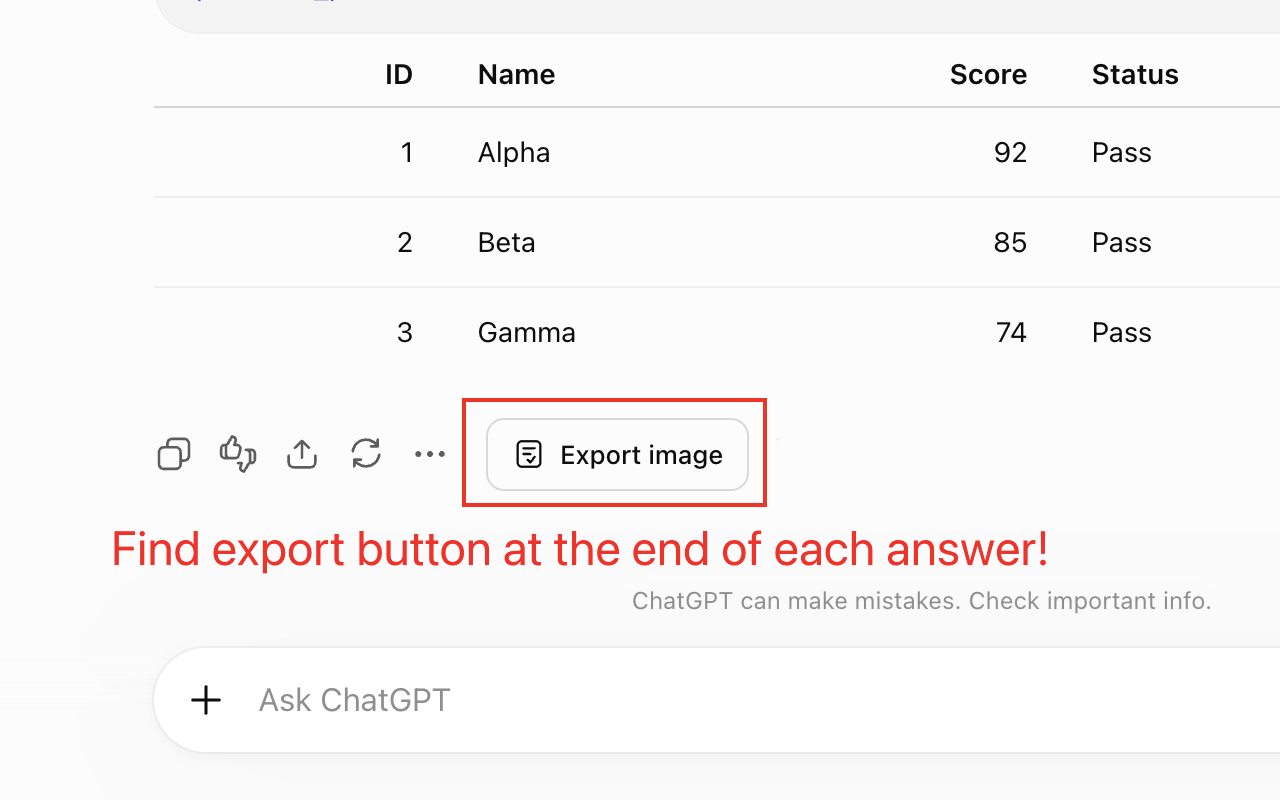
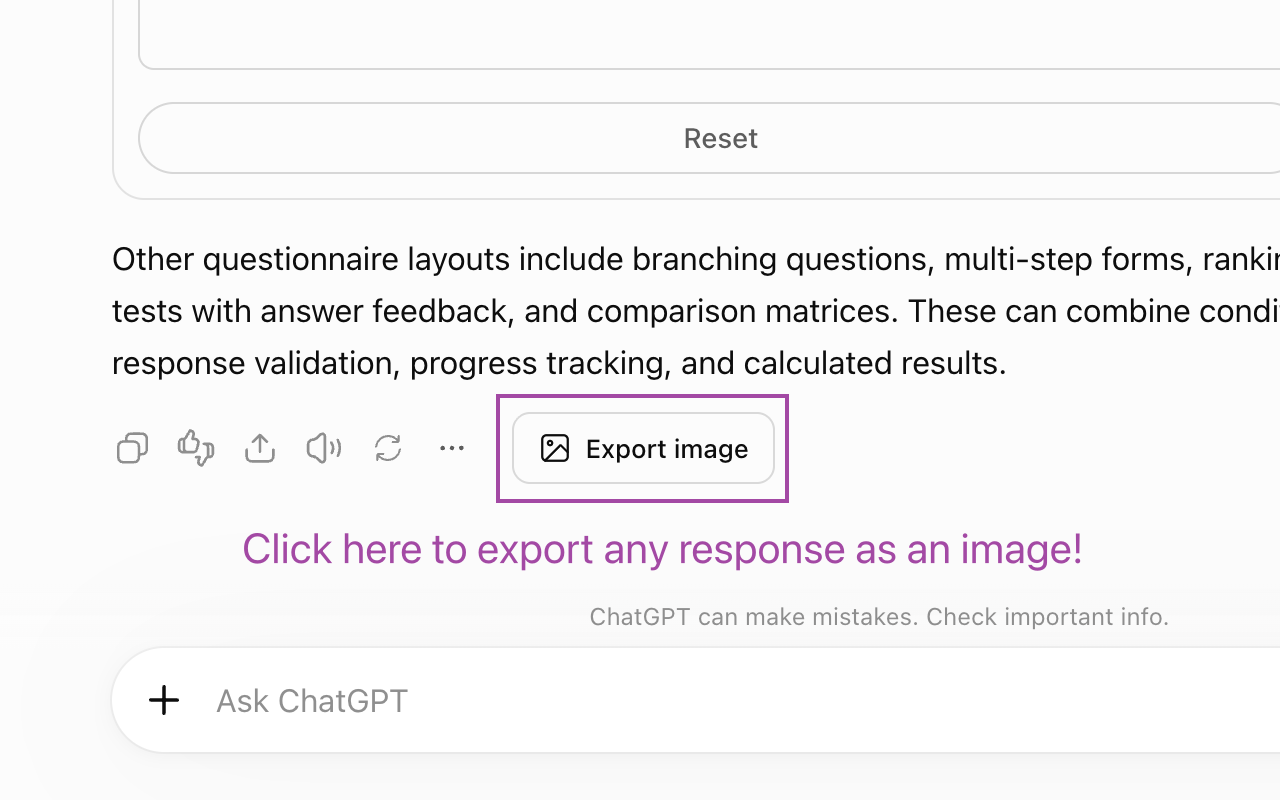
Release 1.2.1: fix structured exports and clarify layout width

diff --git a/tests/fixtures/scorecard.html b/tests/fixtures/scorecard.html
@@ -1,0 +1,1 @@
+<div class="Box-qIMv6G" data-d-component="box" data-d-direction="col" data-d-has-border="" style="border: 1px solid var(--color-border); border-radius: var(--radius-xl); --w-box-gutter-block-end: calc(var(--spacing, 0.25rem) * 3); --w-box-gutter-block-start: calc(var(--spacing, 0.25rem) * 3); --w-box-gutter-inline-end: calc(var(--spacing, 0.25rem) * 3); --w-box-gutter-inline-start: calc(var(--spacing, 0.25rem) * 3); padding-block: calc(var(--spacing, 0.25rem) * 3); padding-inline: calc(var(--spacing, 0.25rem) * 3); gap: calc(var(--spacing, 0.25rem) * 3);"><h2 class="TextBase-hXhSqg Title-HRvkwB" data-d-component="title" data-d-size="lg" data-d-weight="semibold">Mock interview scorecard</h2><span class="TextBase-hXhSqg Caption-VSNpzV" data-d-component="caption" data-d-size="lg" data-d-weight="normal">Score each dimension: 0 = missing, 1 = required prompting, 2 = independently demonstrated.</span><div class="Box-qIMv6G" data-d-component="box" data-d-direction="col" style="gap: calc(var(--spacing, 0.25rem) * 1);"><p class="TextBase-hXhSqg Text-lIMP0_" data-d-component="text" data-d-weight="medium">Requirements and appropriate scoping</p><div class="SegmentedControl-H_wCVX" data-d-component="segmented-control"><div dir="ltr" role="radiogroup" class="SegmentedControl-QpvYX9" data-pill="" data-variant="ghost" data-size="md" aria-label="Options" tabindex="0" style="outline: none;"><div class="SegmentedControlThumb-q65vDK" style="transition: width 300ms var(--cubic-enter), transform 300ms var(--cubic-enter);"></div><button type="button" data-state="off" role="radio" aria-checked="false" class="SegmentedControlOption-y4aI7a" aria-label="0 · Missing" tabindex="-1" data-radix-collection-item=""><span class="relative">0 · Missing</span></button><button type="button" data-state="off" role="radio" aria-checked="false" class="SegmentedControlOption-y4aI7a" aria-label="1 · Assisted" tabindex="-1" data-radix-collection-item=""><span class="relative">1 · Assisted</span></button><button type="button" data-state="off" role="radio" aria-checked="false" class="SegmentedControlOption-y4aI7a" aria-label="2 · Independent" tabindex="-1" data-radix-collection-item=""><span class="relative">2 · Independent</span></button></div></div></div><div class="Divider-WkGDyu" data-d-component="divider" style="--divider-color: var(--color-border); --divider-size: 1px;"></div><div class="Box-qIMv6G" data-d-component="box" data-d-direction="col" style="gap: calc(var(--spacing, 0.25rem) * 1);"><p class="TextBase-hXhSqg Text-lIMP0_" data-d-component="text" data-d-weight="medium">API, data model, and core architecture</p><div class="SegmentedControl-H_wCVX" data-d-component="segmented-control"><div dir="ltr" role="radiogroup" class="SegmentedControl-QpvYX9" data-pill="" data-variant="ghost" data-size="md" aria-label="Options" tabindex="0" style="outline: none;"><div class="SegmentedControlThumb-q65vDK" style="transition: width 300ms var(--cubic-enter), transform 300ms var(--cubic-enter);"></div><button type="button" data-state="off" role="radio" aria-checked="false" class="SegmentedControlOption-y4aI7a" aria-label="0 · Missing" tabindex="-1" data-radix-collection-item=""><span class="relative">0 · Missing</span></button><button type="button" data-state="off" role="radio" aria-checked="false" class="SegmentedControlOption-y4aI7a" aria-label="1 · Assisted" tabindex="-1" data-radix-collection-item=""><span class="relative">1 · Assisted</span></button><button type="button" data-state="off" role="radio" aria-checked="false" class="SegmentedControlOption-y4aI7a" aria-label="2 · Independent" tabindex="-1" data-radix-collection-item=""><span class="relative">2 · Independent</span></button></div></div></div><div class="Divider-WkGDyu" data-d-component="divider" style="--divider-color: var(--color-border); --divider-size: 1px;"></div><div class="Box-qIMv6G" data-d-component="box" data-d-direction="col" style="gap: calc(var(--spacing, 0.25rem) * 1);"><p class="TextBase-hXhSqg Text-lIMP0_" data-d-component="text" data-d-weight="medium">Complete end-to-end request/data flow</p><div class="SegmentedControl-H_wCVX" data-d-component="segmented-control"><div dir="ltr" role="radiogroup" class="SegmentedControl-QpvYX9" data-pill="" data-variant="ghost" data-size="md" aria-label="Options" tabindex="0" style="outline: none;"><div class="SegmentedControlThumb-q65vDK" style="transition: width 300ms var(--cubic-enter), transform 300ms var(--cubic-enter);"></div><button type="button" data-state="off" role="radio" aria-checked="false" class="SegmentedControlOption-y4aI7a" aria-label="0 · Missing" tabindex="-1" data-radix-collection-item=""><span class="relative">0 · Missing</span></button><button type="button" data-state="off" role="radio" aria-checked="false" class="SegmentedControlOption-y4aI7a" aria-label="1 · Assisted" tabindex="-1" data-radix-collection-item=""><span class="relative">1 · Assisted</span></button><button type="button" data-state="off" role="radio" aria-checked="false" class="SegmentedControlOption-y4aI7a" aria-label="2 · Independent" tabindex="-1" data-radix-collection-item=""><span class="relative">2 · Independent</span></button></div></div></div><div class="Divider-WkGDyu" data-d-component="divider" style="--divider-color: var(--color-border); --divider-size: 1px;"></div><div class="Box-qIMv6G" data-d-component="box" data-d-direction="col" style="gap: calc(var(--spacing, 0.25rem) * 1);"><p class="TextBase-hXhSqg Text-lIMP0_" data-d-component="text" data-d-weight="medium">Reasoned trade-offs and bottleneck analysis</p><div class="SegmentedControl-H_wCVX" data-d-component="segmented-control"><div dir="ltr" role="radiogroup" class="SegmentedControl-QpvYX9" data-pill="" data-variant="ghost" data-size="md" aria-label="Options" tabindex="0" style="outline: none;"><div class="SegmentedControlThumb-q65vDK" style="transition: width 300ms var(--cubic-enter), transform 300ms var(--cubic-enter);"></div><button type="button" data-state="off" role="radio" aria-checked="false" class="SegmentedControlOption-y4aI7a" aria-label="0 · Missing" tabindex="-1" data-radix-collection-item=""><span class="relative">0 · Missing</span></button><button type="button" data-state="off" role="radio" aria-checked="false" class="SegmentedControlOption-y4aI7a" aria-label="1 · Assisted" tabindex="-1" data-radix-collection-item=""><span class="relative">1 · Assisted</span></button><button type="button" data-state="off" role="radio" aria-checked="false" class="SegmentedControlOption-y4aI7a" aria-label="2 · Independent" tabindex="-1" data-radix-collection-item=""><span class="relative">2 · Independent</span></button></div></div></div><div class="Divider-WkGDyu" data-d-component="divider" style="--divider-color: var(--color-border); --divider-size: 1px;"></div><div class="Box-qIMv6G" data-d-component="box" data-d-direction="col" style="gap: calc(var(--spacing, 0.25rem) * 1);"><p class="TextBase-hXhSqg Text-lIMP0_" data-d-component="text" data-d-weight="medium">Failure handling, observability, and relevant AI concerns</p><div class="SegmentedControl-H_wCVX" data-d-component="segmented-control"><div dir="ltr" role="radiogroup" class="SegmentedControl-QpvYX9" data-pill="" data-variant="ghost" data-size="md" aria-label="Options" tabindex="0" style="outline: none;"><div class="SegmentedControlThumb-q65vDK" style="transition: width 300ms var(--cubic-enter), transform 300ms var(--cubic-enter);"></div><button type="button" data-state="off" role="radio" aria-checked="false" class="SegmentedControlOption-y4aI7a" aria-label="0 · Missing" tabindex="-1" data-radix-collection-item=""><span class="relative">0 · Missing</span></button><button type="button" data-state="off" role="radio" aria-checked="false" class="SegmentedControlOption-y4aI7a" aria-label="1 · Assisted" tabindex="-1" data-radix-collection-item=""><span class="relative">1 · Assisted</span></button><button type="button" data-state="off" role="radio" aria-checked="false" class="SegmentedControlOption-y4aI7a" aria-label="2 · Independent" tabindex="-1" data-radix-collection-item=""><span class="relative">2 · Independent</span></button></div></div></div><div class="Divider-WkGDyu" data-d-component="divider" style="--divider-color: var(--color-border); --divider-size: 1px;"></div><div class="Box-qIMv6G" data-d-align="center" data-d-auto-spacing="" data-d-component="row" data-d-direction="row" data-d-justify="between"><div class="Box-qIMv6G" data-d-component="box" data-d-direction="col" style="gap: calc(var(--spacing, 0.25rem) * 1);"><p class="TextBase-hXhSqg Text-lIMP0_" data-d-component="text" data-d-size="sm" style="color: var(--color-text-secondary);">Total score</p><h1 class="TextBase-hXhSqg Title-HRvkwB" data-d-component="title" data-d-size="2xl" data-d-weight="semibold" data-d-tabular-nums="true">0 / 5 scored</h1></div><button type="button" class="Button-MckCnJ Button-ryTVE1" data-color="secondary" data-variant="outline" data-pill="" data-size="md" data-d-component="button"><span class="ButtonInner-okLAMd">Reset</span></button></div></div>

diff --git a/tests/fixtures/structured-segmented-bar.html b/tests/fixtures/structured-segmented-bar.html
@@ -1,0 +1,1 @@
+<div class="Box-qIMv6G" data-d-component="box" data-d-direction="col" data-d-has-border="" style="border: 1px solid var(--color-border); border-radius: var(--radius-lg); --w-box-gutter-block-end: calc(var(--spacing, 0.25rem) * 3); --w-box-gutter-block-start: calc(var(--spacing, 0.25rem) * 3); --w-box-gutter-inline-end: calc(var(--spacing, 0.25rem) * 3); --w-box-gutter-inline-start: calc(var(--spacing, 0.25rem) * 3); padding-block: calc(var(--spacing, 0.25rem) * 3); padding-inline: calc(var(--spacing, 0.25rem) * 3); gap: calc(var(--spacing, 0.25rem) * 2);"><h3 class="TextBase-hXhSqg Title-HRvkwB" data-d-component="title" data-d-size="md" data-d-weight="semibold">45-minute interview structure</h3><div class="Box-qIMv6G" data-d-clip="true" data-d-component="box" data-d-direction="row" data-d-has-height="" style="border-radius: var(--radius-md); gap: 2px; height: 14px;"><div class="Box-qIMv6G" data-d-auto-spacing="" data-d-component="box" data-d-direction="col" style="--smoothing-background-color: #94a3b8; background-color: rgb(148, 163, 184); flex: 5 1 0%;"></div><div class="Box-qIMv6G" data-d-auto-spacing="" data-d-component="box" data-d-direction="col" style="--smoothing-background-color: #64748b; background-color: rgb(100, 116, 139); flex: 5 1 0%;"></div><div class="Box-qIMv6G" data-d-auto-spacing="" data-d-component="box" data-d-direction="col" style="--smoothing-background-color: #3b82f6; background-color: rgb(59, 130, 246); flex: 12 1 0%;"></div><div class="Box-qIMv6G" data-d-auto-spacing="" data-d-component="box" data-d-direction="col" style="--smoothing-background-color: #155e75; background-color: rgb(21, 94, 117); flex: 18 1 0%;"></div><div class="Box-qIMv6G" data-d-auto-spacing="" data-d-component="box" data-d-direction="col" style="--smoothing-background-color: #a5b4fc; background-color: rgb(165, 180, 252); flex: 5 1 0%;"></div></div><div class="TableFrame-YxtDrz" data-d-column-sizing="auto" data-d-component="table"><table class="Table-QT1UX2" data-d-column-sizing="auto" data-d-dividers="" style="table-layout: auto;"><tbody><tr data-d-component="table-row"><td data-d-component="table-cell" data-d-has-width="" data-d-valign="start" style="width: 8%;"><div class="Box-qIMv6G" data-d-auto-spacing="" data-d-component="box" data-d-direction="col" data-d-has-width="" data-d-has-height="" style="--smoothing-background-color: #94a3b8; border-radius: var(--radius-sm); background-color: rgb(148, 163, 184); flex-shrink: 0; height: 12px; width: 12px;"></div></td><td data-d-component="table-cell" data-d-valign="start">Requirements and constraints</td><td data-d-align="end" data-d-component="table-cell" data-d-valign="start"><p class="TextBase-hXhSqg Text-lIMP0_" data-d-component="text" data-d-tabular-nums="true">5 min</p></td></tr><tr data-d-component="table-row"><td data-d-component="table-cell" data-d-has-width="" data-d-valign="start" style="width: 8%;"><div class="Box-qIMv6G" data-d-auto-spacing="" data-d-component="box" data-d-direction="col" data-d-has-width="" data-d-has-height="" style="--smoothing-background-color: #64748b; border-radius: var(--radius-sm); background-color: rgb(100, 116, 139); flex-shrink: 0; height: 12px; width: 12px;"></div></td><td data-d-component="table-cell" data-d-valign="start">APIs and data model</td><td data-d-align="end" data-d-component="table-cell" data-d-valign="start"><p class="TextBase-hXhSqg Text-lIMP0_" data-d-component="text" data-d-tabular-nums="true">5 min</p></td></tr><tr data-d-component="table-row"><td data-d-component="table-cell" data-d-has-width="" data-d-valign="start" style="width: 8%;"><div class="Box-qIMv6G" data-d-auto-spacing="" data-d-component="box" data-d-direction="col" data-d-has-width="" data-d-has-height="" style="--smoothing-background-color: #3b82f6; border-radius: var(--radius-sm); background-color: rgb(59, 130, 246); flex-shrink: 0; height: 12px; width: 12px;"></div></td><td data-d-component="table-cell" data-d-valign="start">High-level architecture</td><td data-d-align="end" data-d-component="table-cell" data-d-valign="start"><p class="TextBase-hXhSqg Text-lIMP0_" data-d-component="text" data-d-tabular-nums="true">12 min</p></td></tr><tr data-d-component="table-row"><td data-d-component="table-cell" data-d-has-width="" data-d-valign="start" style="width: 8%;"><div class="Box-qIMv6G" data-d-auto-spacing="" data-d-component="box" data-d-direction="col" data-d-has-width="" data-d-has-height="" style="--smoothing-background-color: #155e75; border-radius: var(--radius-sm); background-color: rgb(21, 94, 117); flex-shrink: 0; height: 12px; width: 12px;"></div></td><td data-d-component="table-cell" data-d-valign="start">Deep dives and trade-offs</td><td data-d-align="end" data-d-component="table-cell" data-d-valign="start"><p class="TextBase-hXhSqg Text-lIMP0_" data-d-component="text" data-d-tabular-nums="true">18 min</p></td></tr><tr data-d-component="table-row"><td data-d-component="table-cell" data-d-has-width="" data-d-valign="start" style="width: 8%;"><div class="Box-qIMv6G" data-d-auto-spacing="" data-d-component="box" data-d-direction="col" data-d-has-width="" data-d-has-height="" style="--smoothing-background-color: #a5b4fc; border-radius: var(--radius-sm); background-color: rgb(165, 180, 252); flex-shrink: 0; height: 12px; width: 12px;"></div></td><td data-d-component="table-cell" data-d-valign="start">Wrap-up and limitations</td><td data-d-align="end" data-d-component="table-cell" data-d-valign="start"><p class="TextBase-hXhSqg Text-lIMP0_" data-d-component="text" data-d-tabular-nums="true">5 min</p></td></tr></tbody></table></div><span class="TextBase-hXhSqg Caption-VSNpzV" data-d-component="caption" data-d-size="lg" data-d-weight="normal">Adapted as a practice framework from Hello Interview's delivery guidance. <span class="TextBase-hXhSqg Text-lIMP0_" data-d-component="text" data-d-inline=""><div class="Trigger-C5mz9C" data-d-component="popover-trigger" data-d-inline="" data-d-inline-text="" role="button" tabindex="0" type="button" aria-haspopup="dialog" aria-expanded="false" data-state="closed"><div class="Badge-_iijmO Badge-G_joSy" data-color="secondary" data-size="sm" data-pill="" data-variant="soft" data-d-component="badge" data-d-hoverable="" data-d-weight="normal" style="--w-box-gutter-block-end: calc(var(--spacing, 0.25rem) * 1); --w-box-gutter-block-start: calc(var(--spacing, 0.25rem) * 1); --w-box-gutter-inline-end: calc(var(--spacing, 0.25rem) * 1.5); --w-box-gutter-inline-start: calc(var(--spacing, 0.25rem) * 1); padding-block-end: calc(var(--spacing, 0.25rem) * 1); padding-block-start: calc(var(--spacing, 0.25rem) * 1); padding-inline-end: calc(var(--spacing, 0.25rem) * 1.5); padding-inline-start: calc(var(--spacing, 0.25rem) * 1); max-width: 100px; background-color: var(--gray-75); height: auto;"><div class="Box-qIMv6G" data-d-auto-spacing="" data-d-component="row" data-d-direction="row" style="flex: 0 0 auto;"><div class="Box-qIMv6G FaviconBox-a4uDs_" data-d-auto-spacing="" data-d-component="favicon" data-d-direction="col" data-d-has-width="" data-d-has-height="" role="presentation" style="flex-shrink: 0; height: 12px; width: 12px;"><img class="Image-LDLXtM Image-Tq_How" data-loaded="" draggable="false" src="https://www.google.com/s2/favicons?domain=https://www.hellointerview.com&amp;sz=32"></div></div><div class="Box-qIMv6G" data-d-align="center" data-d-component="row" data-d-direction="row" style="flex: 0 1 auto; gap: calc(var(--spacing, 0.25rem) * 0.75); min-width: 0px;"><div class="Box-qIMv6G" data-d-auto-spacing="" data-d-component="row" data-d-direction="row" style="flex: 0 1 auto; min-width: 0px;"><span class="TextBase-hXhSqg Text-lIMP0_" data-d-component="text" data-d-size="3xs" data-d-inline="" data-d-truncate="true" data-d-clamp-lines="true" style="color: var(--color-text-secondary); -webkit-line-clamp: 1;">Hello Interview</span></div><div class="Box-qIMv6G" data-d-auto-spacing="" data-d-component="row" data-d-direction="row" style="flex: 0 0 auto;"><span class="TextBase-hXhSqg Text-lIMP0_" data-d-component="text" data-d-size="3xs" data-d-inline="" style="color: var(--color-text-tertiary);">+1</span></div></div></div></div></span></span></div>

diff --git a/src/panel.js b/src/panel.js
@@ -7,7 +7,7 @@ import { DEFAULT_SETTINGS, loadSettings, saveSettings } from './settings.js';
 import { validLayout, inRange, WIDTH_LIMITS, FONT_LIMITS } from './layout.js';
 import { CORNER_RADIUS } from './image-style.js';
 
-export const exportIcon = '<svg viewBox="0 0 24 24" fill="none" stroke="currentColor" stroke-width="1.6" stroke-linecap="round" stroke-linejoin="round" aria-hidden="true"><rect x="4" y="3" width="16" height="18" rx="3"/><path d="M8 8h8M8 12h5m-2 4 2 2 3-4"/></svg>';
+export const exportIcon = '<svg viewBox="0 0 24 24" fill="none" stroke="currentColor" stroke-width="1.6" stroke-linecap="round" stroke-linejoin="round" aria-hidden="true"><rect x="3" y="3" width="18" height="18" rx="3"/><circle cx="8.5" cy="8.5" r="1.5"/><path d="m21 15-5-5L5 21"/></svg>';
 const downloadIcon = '<svg viewBox="0 0 24 24" fill="none" stroke="currentColor" stroke-width="1.7" stroke-linecap="round" stroke-linejoin="round" aria-hidden="true"><path d="M12 3v12m-4-4 4 4 4-4M5 16v4h14v-4"/></svg>';
 function settingHeading(key, id, control) {
   const title = control
@@ -34,7 +34,7 @@ export function openPanel(preselected) {
       <div class="field filename-field"><label for="filename">${t('fileName')}</label><input type="text" id="filename" maxlength="120" autocomplete="off" spellcheck="false"></div>
       <div class="field"><span class="field-label" id="theme-label">${t('imageStyle')}</span><div class="segments" data-option="theme" role="group" aria-labelledby="theme-label"><button data-value="light" aria-pressed="true">${t('light')}</button><button data-value="dark" aria-pressed="false">${t('dark')}</button></div></div>
       <div class="field"><span class="field-label" id="format-label">${t('format')}</span><div class="segments" data-option="format" role="group" aria-labelledby="format-label"><button data-value="png" aria-pressed="true">PNG</button><button data-value="jpg" aria-pressed="false">JPG</button></div></div>
-      <div class="field">${settingHeading('width', 'width-label', 'widthMode')}<select id="widthMode"><option value="auto">${t('automatic')}</option><option value="custom">${t('customWidth')}</option></select><input class="hidden" id="width" type="number" min="600" max="1600" step="1" required aria-label="${t('cardWidthPixels')}" aria-describedby="width-error"><span class="field-error hidden" id="width-error" role="alert">${t('widthRange')}</span><p class="layout-note hidden" role="status"></p></div>
+      <div class="field">${settingHeading('width', 'width-label', 'widthMode')}<select id="widthMode"><option value="auto">${t('automatic')}</option><option value="custom">${t('customWidth')}</option></select><input class="hidden" id="width" type="number" min="600" max="1600" step="1" required aria-label="${t('cardWidthPixels')}" aria-describedby="width-error output-width-note"><span class="field-error hidden" id="width-error" role="alert">${t('widthRange')}</span><p class="output-width-note" id="output-width-note" aria-live="polite"></p><p class="layout-note hidden" role="status"></p></div>
       <div class="field">${settingHeading('quality', 'quality-label', 'scale')}<select id="scale"><option value="1">${t('standard')} · 1×</option><option value="2" selected>${t('high')} · 2×</option><option value="3">${t('ultra')} · 3×</option></select></div>
       <div class="field font-size-field"><span class="field-label" id="font-size-label">${t('fontSize')}</span><div class="segments" data-option="fontSize" role="group" aria-labelledby="font-size-label"><button data-value="small" aria-pressed="false">${t('small')}</button><button data-value="standard" aria-pressed="true">${t('standard')}</button><button data-value="large" aria-pressed="false">${t('large')}</button><button data-value="custom" aria-pressed="false">${t('custom')}</button></div><input class="hidden" id="customFontSize" type="number" min="12" max="24" step="1" required aria-label="${t('fontSizePixels')}" aria-describedby="font-error"><span class="field-error hidden" id="font-error" role="alert">${t('fontRange')}</span></div>
       <div class="field diagram-size-field">${settingHeading('diagramSize', 'diagram-size-label')}<div class="segments" data-option="diagramSize" role="group" aria-labelledby="diagram-size-label"><button data-value="small" aria-pressed="false">${t('small')}</button><button data-value="standard" aria-pressed="true">${t('standard')}</button><button data-value="large" aria-pressed="false">${t('large')}</button></div></div>
@@ -59,6 +59,9 @@ export function openPanel(preselected) {
     $('#customFontSize').classList.toggle('hidden', options.fontSize !== 'custom');
     const widthInvalid = options.widthMode === 'custom' && !inRange(options.width, WIDTH_LIMITS);
     const fontInvalid = options.fontSize === 'custom' && !inRange(options.customFontSize, FONT_LIMITS);
+    $('#output-width-note').textContent = widthInvalid ? '' : options.widthMode === 'custom'
+      ? t('outputWidthEstimate', { width: options.width * options.scale, layout: options.width, scale: `${options.scale}×` })
+      : '';
     $('#width-error').classList.toggle('hidden', !widthInvalid);
     $('#font-error').classList.toggle('hidden', !fontInvalid);
     $('#width').setAttribute('aria-invalid', String(widthInvalid));

diff --git a/src/components.js b/src/components.js
@@ -5,7 +5,7 @@ export function preserveComponents(clone, sourceByCopy, readStyle = source => ge
   const nodes = [clone, ...clone.querySelectorAll('[data-d-component]')];
   for (const copy of nodes) {
     const type = copy.getAttribute('data-d-component');
-    if (!['box', 'row', 'title', 'text', 'caption', 'divider', 'svg', 'list', 'list-item', 'badge', 'form', 'radio-group', 'radio'].includes(type)) continue;
+    if (!['box', 'row', 'title', 'text', 'caption', 'divider', 'svg', 'list', 'list-item', 'badge', 'form', 'radio-group', 'radio', 'table', 'table-row', 'table-cell'].includes(type)) continue;
     const source = sourceByCopy.get(copy);
     if (!source) continue;
     copy.setAttribute('data-export-component', type);
@@ -14,6 +14,10 @@ export function preserveComponents(clone, sourceByCopy, readStyle = source => ge
       hr.setAttribute('data-export-component', 'divider');
       copy.replaceWith(hr);
       continue;
+    }
+    if (type === 'table-cell') {
+      const width = source.style.getPropertyValue('width');
+      if (width && !width.includes('var(')) copy.style.width = width;
     }
     if (type === 'box' || type === 'row' || type === 'form') {
       const style = readStyle(source);
@@ -25,6 +29,9 @@ export function preserveComponents(clone, sourceByCopy, readStyle = source => ge
         const value = style.getPropertyValue(property);
         if (value && value !== 'normal' && !value.includes('var(')) copy.style.setProperty(property, property === 'gap' && /^\d+(?:\.\d+)?px$/.test(value) ? `calc(${value} * var(--spacing-scale, 1))` : value);
       }
+      // Empty flex children can be colored segments with no explicit height.
+      const background = source.style.getPropertyValue('background-color');
+      if (background && !background.includes('var(')) copy.style.backgroundColor = background;
       // Fixed-height boxes in these components include empty progress tracks
       // and fills. Preserve dimensions, including a meaningful width of 0%.
       if (source.hasAttribute('data-d-has-height')) {
@@ -37,9 +44,7 @@ export function preserveComponents(clone, sourceByCopy, readStyle = source => ge
           const width = source.style.getPropertyValue('width') || style.getPropertyValue('width');
           if (width && !width.includes('var(')) copy.style.width = width;
         }
-        // Theme-dependent surfaces use our palette; literal accent colors survive.
-        const background = source.style.getPropertyValue('background-color');
-        if (background && !background.includes('var(')) copy.style.backgroundColor = background;
+
       }
     }
     if (/var\(--color-text-secondary\)/.test(source.getAttribute('style') || '')) {

diff --git a/src/i18n.js b/src/i18n.js
@@ -2,7 +2,8 @@ export const PLUGIN_NAME = 'Answer Imagifier - for ChatGPT';
 
 export const messages = {
   "settingHelp": { "zh": "{setting}说明", "en": "About {setting}" },
-  "widthHelp": { "zh": "控制整张图片的排版宽度。自动适配内容，或自定义 600–1600px。", "en": "Set the whole card width. Fit content automatically or choose 600–1600px." },
+  "outputWidthEstimate": { "zh": "预计输出宽度：{width}px（{layout}px × {scale}）", "en": "Expected output width: {width}px ({layout}px × {scale})" },
+  "widthHelp": { "zh": "控制内容排版宽度，最终像素宽度 = 排版宽度 × 清晰度倍数。", "en": "Set the layout width. Output pixel width = layout width × resolution scale." },
   "qualityHelp": { "zh": "提高像素分辨率，不改变排版；倍数越高，文件越大。", "en": "Increase pixel resolution without changing layout. Higher scales make larger files." },
   "diagramSizeHelp": { "zh": "调整图表在图片中的大小，保持比例；不影响行内小图标。", "en": "Resize diagrams within the image, keeping their proportions. Inline icons stay unchanged." },
   "spacingHelp": { "zh": "调整行距和内容块之间的留白，不改变字号。", "en": "Adjust line spacing and gaps between content blocks without changing font size." },
@@ -31,13 +32,13 @@ export const messages = {
     "en": "Image format"
   },
   "width": {
-    "zh": "长图宽度",
-    "en": "Card width"
+    "zh": "排版宽度",
+    "en": "Layout width"
   },
   "automatic": { "zh": "自动", "en": "Automatic" },
   "custom": { "zh": "自定义", "en": "Custom" },
   "customWidth": { "zh": "自定义（px）", "en": "Custom (px)" },
-  "cardWidthPixels": { "zh": "长图宽度（px）", "en": "Card width (px)" },
+  "cardWidthPixels": { "zh": "排版宽度（px）", "en": "Layout width (px)" },
   "fontSizePixels": { "zh": "正文字号（px）", "en": "Body font size (px)" },
   "widthRange": { "zh": "请输入 600–1600 之间的整数。", "en": "Enter a whole number from 600 to 1600." },
   "fontRange": { "zh": "请输入 12–24 之间的整数。", "en": "Enter a whole number from 12 to 24." },

diff --git a/src/form-controls.js b/src/form-controls.js
@@ -1,5 +1,5 @@
 const NON_CHECKBOX = 'input:not([type=checkbox]):not([type=hidden]),select,textarea,[role=radio],[role=radiogroup],[role=combobox],[role=slider],[role=textbox]';
-const CONTROLS = `${NON_CHECKBOX},input[type=checkbox],[role=checkbox],[data-d-component=select],[data-d-component=date-picker],[data-d-component=slider]`;
+const CONTROLS = `[data-d-component=segmented-control],${NON_CHECKBOX},input[type=checkbox],[role=checkbox],[data-d-component=select],[data-d-component=date-picker],[data-d-component=slider]`;
 
 function formContext(source) {
   const form = source.closest('form,[data-export-form]');
@@ -37,6 +37,18 @@ export function preserveFormControls(clone, sourceByCopy, readStyle = source => 
     if (!clone.contains(copy) || copy.closest('pre,code,svg,[data-math]')) continue;
     const source = sourceByCopy.get(copy);
     if (!source || source.matches('input[type=hidden],input[type=submit],input[type=reset],input[type=button],[role=radiogroup],[aria-hidden="true"]')) continue;
+    if (source.matches('[data-d-component=segmented-control]')) {
+      const group = node(document, 'div', 'segmented');
+      group.setAttribute('data-export-variant', source.querySelector('[data-variant]')?.getAttribute('data-variant') || 'outline');
+      for (const option of source.querySelectorAll('[role=radio]')) {
+        const label = option.textContent.trim() || option.getAttribute('aria-label') || '';
+        const item = node(document, 'span', 'segment', label);
+        item.setAttribute('data-export-selected', String(option.getAttribute('aria-checked') === 'true'));
+        group.append(item);
+      }
+      copy.replaceWith(group);
+      continue;
+    }
     const checkbox = source.matches('input[type=checkbox],[role=checkbox]');
     const radio = source.matches('input[type=radio],[role=radio]');
     if (source.matches('input[type=checkbox],input[type=radio]') && source.parentElement.querySelector('[role=checkbox],[role=radio]')) continue;

diff --git a/src/card.css b/src/card.css
@@ -115,3 +115,18 @@
 
 .ai-card [data-export-component=radio-group]{flex-wrap:nowrap}
 .ai-card [data-export-choice-row]>:not(svg){min-width:0;max-width:100%}
+
+/* Structured segmented bars stretch their colored flex children to the track. */
+.ai-card [data-export-shape][data-d-direction=row]{display:flex;flex-wrap:nowrap;align-items:stretch}
+.ai-card [data-export-component=table][data-d-column-sizing=auto] table{table-layout:auto}
+.ai-card table[data-d-dividers] :is(th,td){border:0;border-bottom:1px solid #e5e5e5;padding:8px 0}
+.ai-card table[data-d-dividers] tr:last-child :is(th,td){border-bottom:0}
+.ai-card [data-export-component=table-cell][data-d-align=end]{text-align:right}
+.ai-card[data-theme=dark] table[data-d-dividers] :is(th,td){border-bottom-color:#494949}
+.ai-card [data-export-form-control=segmented]{display:flex;flex-wrap:wrap;gap:4px;min-width:0}
+.ai-card [data-export-form-control=segment]{padding:6px 12px;border:1px solid #ddd;border-radius:999px;color:#737373;line-height:1.4;overflow-wrap:anywhere}
+.ai-card [data-export-variant=ghost]>[data-export-form-control=segment]{border-color:transparent}
+.ai-card [data-export-form-control=segment][data-export-selected=true]{color:#242424;background:#eee;border-color:#ddd;font-weight:500}
+.ai-card[data-theme=dark] [data-export-form-control=segment]{color:#aaa;border-color:#494949}
+.ai-card[data-theme=dark] [data-export-variant=ghost]>[data-export-form-control=segment]{border-color:transparent}
+.ai-card[data-theme=dark] [data-export-form-control=segment][data-export-selected=true]{color:#eee;background:#424242;border-color:#666}

diff --git a/src/panel.css b/src/panel.css
@@ -42,3 +42,6 @@
 .info-button:hover,.info-button:focus-visible{color:#888;border-color:#aaa;background:transparent}
 .setting-tooltip{position:absolute;z-index:5;left:0;top:100%;width:min(240px,100%);padding:10px 12px;margin-top:6px;border-radius:8px;background:#242424;color:#fff;font-size:12px;font-weight:400;line-height:1.5;box-shadow:0 4px 14px #0002;visibility:hidden;opacity:0;pointer-events:none}
 .setting-help:hover .setting-tooltip,.setting-help:focus-within .setting-tooltip{visibility:visible;opacity:1}
+
+.output-width-note{margin:8px 0 0;color:#888;font-size:11px;line-height:1.5}
+.output-width-note:empty{display:none}

diff --git a/README.md b/README.md
@@ -2,7 +2,7 @@
 
 把 **ChatGPT 单独一条回答** 渲染成一张完整的 PNG / JPG 长图。
 
-当前版本：**1.2.0**。更新内容见 [更新日志](changelog.md)。
+当前版本：**1.2.1**。更新内容见 [更新日志](changelog.md)。
 
 ## 安装
 
@@ -14,7 +14,7 @@
 4. 刷新 ChatGPT 对话页面。
 5. 等回答完成并出现原生操作栏后，点击该回答下方的「Export image / 导出长图」。插件不在 ChatGPT 原生分享弹窗中添加按钮。
 
-升级到 1.2.0 后，重新加载扩展并刷新已打开的 ChatGPT 页面。本次未新增权限，仍只使用 `storage` 保存本机导出偏好；旧版宽度设置会保留，旧 Compact layout 设置将忽略。
+升级到 1.2.1 后，重新加载扩展并刷新已打开的 ChatGPT 页面。本次未新增权限，仍只使用 `storage` 保存本机导出偏好；旧版宽度设置会保留，旧 Compact layout 设置将忽略。
 
 ## 功能
 
@@ -25,6 +25,8 @@
 - 可选择包含提问或隐藏扩展署名。
 - 先调整设置再生成预览，也可开启进入时自动渲染；修改设置后手动重新生成。
 - 图片在本机生成，导出偏好仅保存在本机。
+
+自定义的排版宽度不是最终像素宽度：输出像素宽度 = 排版宽度 × 清晰度倍数。例如 1500px 配合 2× 清晰度，输出为 3000px；自定义模式下会显示预计值。
 
 ## 构建与测试
 

diff --git a/changelog.md b/changelog.md
@@ -1,5 +1,19 @@
 # 更新日志
 
+## 1.2.1 — 2026-10-05
+
+- 保留分段色条的颜色及 flex 比例、结构化表格的列宽和横向分隔线；评分分段控件保留选项文字及当前选中状态，不再转换为空圆圈。
+- 更新扩展图标及展示截图。
+
+- 导出入口与面板标题改用经典图片图标（山形与圆点）。
+
+- 将 Card width 改为 Layout width（排版宽度），仅在自定义模式下显示随宽度和清晰度更新的预计输出像素宽度，补齐中英文说明。
+
+### 验证
+
+- 构建及全部 51 项自动化测试通过；使用原始 HTML 样本验证分段色条和评分控件的浅色／深色实际 PNG。
+- 真实 ChatGPT 页面及 Web Store 发布仍需手动验证。
+
 ## 1.2.0 — 2026-10-01
 
 ### 新增
